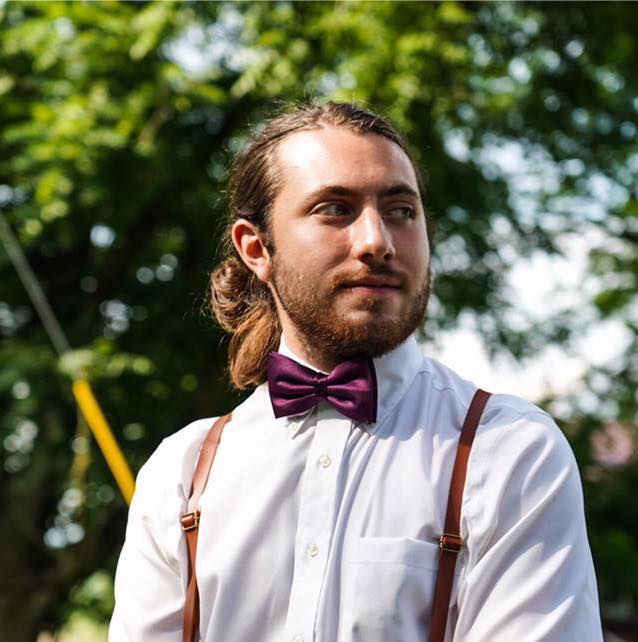
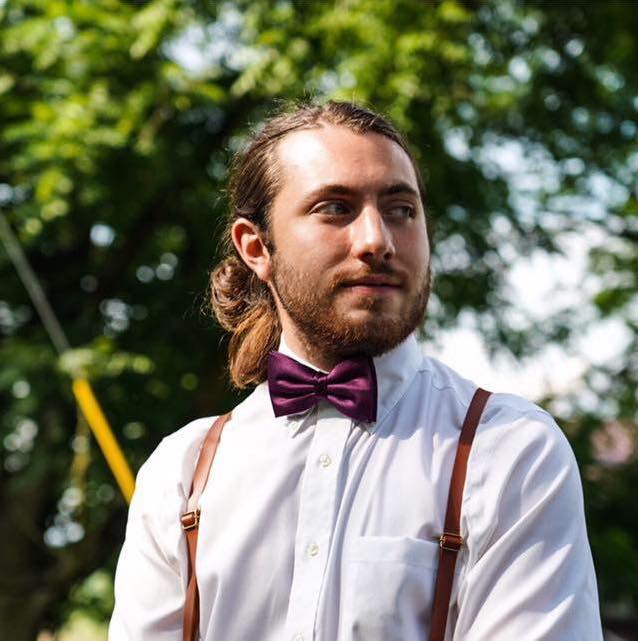
added professional portrait to portfolio page under "contact me" section

diff --git a/assets/css/style.css b/assets/css/style.css
@@ -129,6 +129,18 @@ a:hover {
     font-size: 4vw;
 }
 
+.title img {
+    width: 100%;
+    max-width: 300px;
+    /* border: none; */
+    padding: 0px;
+}
+
+ .title img:hover {
+    border-color: black;
+    box-shadow: none;
+}
+
 .content {
     border-width: 0;
     padding: 0;
@@ -260,8 +272,19 @@ img:hover {
         justify-content: center;
     }
 
+    /* .title h1 {
+        text-align: left;
+    }
+
+    .title img {
+        justify-content: center;
+    } */
     .title {
         text-align: left;
+    }
+
+    .title img {
+        text-align: center;
     }
     
     #image {
@@ -294,4 +317,12 @@ img:hover {
     .title {
         text-align: center;
     }
+
+    /* .title h1 {
+        text-align: center;
+    }
+
+    .title img {
+        text-align: center;
+    } */
 }

diff --git a/index.html b/index.html
@@ -92,6 +92,7 @@
         <section id="contact-me">
             <div class="title">
                 <h1>Contact Me</h1>
+                <img src='./assets/images/headshot.jpg'>
             </div>
             
             <address class="content">
